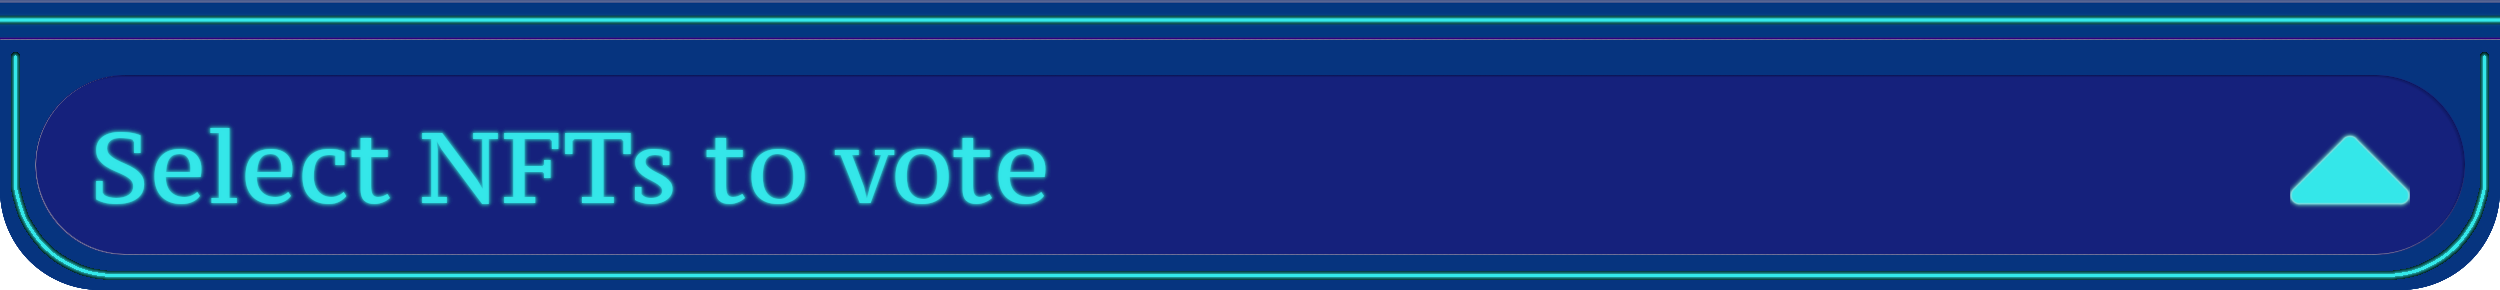
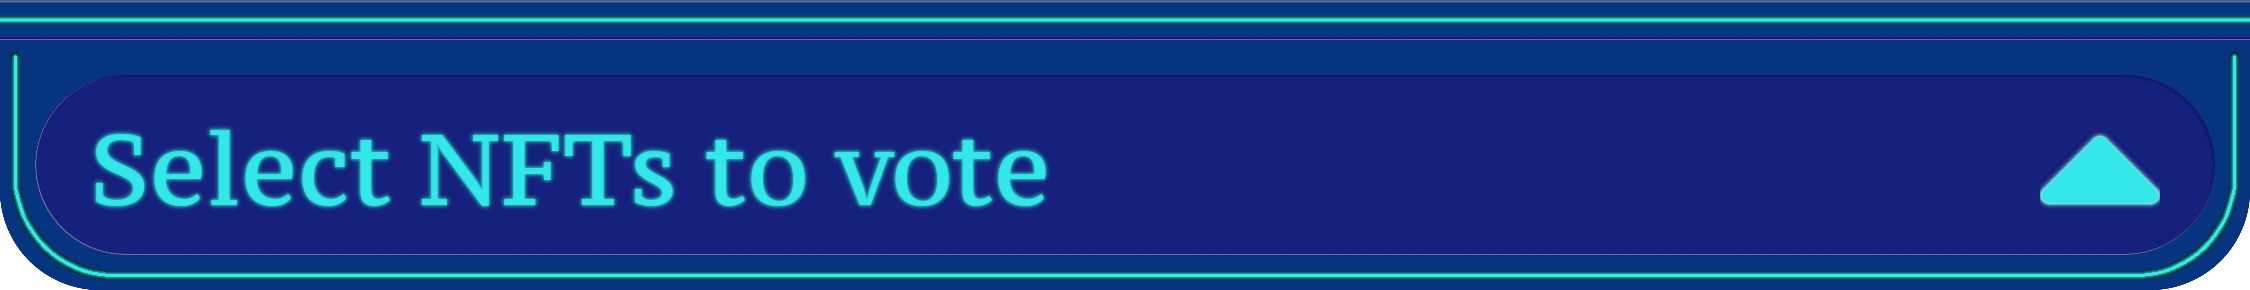
Side panels interaction fix

Changed region(s): [[0.0, 0.1862, 0.4667, 0.9621], [0.9022, 0.1862, 1.0, 0.9931], [0.0311, 0.9931, 0.0622, 1.0]]

diff --git a/script.js b/script.js
@@ -2,7 +2,7 @@ import displayScreen from "./src/display.js";
 import { consolePanel } from "./src/console.js";
 import { renderStory, optionsCounter } from "./src/story.js";
 import { sidePanel, renderPanel, sidePanelBar, sidePanelIcon } from './src/sidepanel.js';
-import { episodesPanel, renderEpisodesPanel, storyNumber } from "./src/episodes.js";
+import { episodesPanel, renderEpisodesPanel, storyNumber, otherEpisodesIcon } from "./src/episodes.js";
 
 
 // Potentials shown (numbers)
@@ -53,7 +53,6 @@ document.body.addEventListener('load', renderGGH());
 window.addEventListener('load', () => resizePage());
 window.addEventListener('resize', () => resizePage());
 
-renderEpisodesPanel();
 
 // Generating page
 
@@ -64,6 +63,7 @@ function renderGGH() {
   displayScreen.renderDisplayButtons();
   renderStory(storyNumber);
   renderPanel();
+  renderEpisodesPanel();
   addListeners();
 }
 
@@ -105,20 +105,36 @@ function resizePage() {
   displayScreen.renderDisplayScreen();
   resizeOptionsContainer();
   consolePanel.renderConsolePanel();
+  if(sidePanel.panelState) {
+    sidePanel.close();
+    sidePanelIcon.style.right = '0';
+  }
+  if(episodesPanel.panelState) {
+    episodesPanel.close();
+    otherEpisodesIconContainer.style.top = '0';
+    otherEpisodesIconContainer.style.left = '0';
+  }
   if(window.outerWidth <= 600) {
     document.body.style.paddingTop = '15%';
     storyText.style.visibility = 'visible';
     sidePanelBar.style.top = '-80%';
     sidePanelIcon.src = 'assets/sideIconMobileOpen.png';
+    otherEpisodesContainer.style.top = '-80%';
+    otherEpisodesContainer.style.left = '0';
+    otherEpisodesIcon.src = 'assets/episodesMobileOpen.png';
   } else {
     document.body.style.paddingTop = '0';
-    sidePanelBar.style.top = '';
+    sidePanelBar.style.top = '0';
+    otherEpisodesContainer.style.top = '0';
+    otherEpisodesContainer.style.left = '-44vw';
+    sidePanelIcon.style.top = '0';
     if(formatButton.src.includes(displayScreen.displayButtons[0].video)) {
       storyText.style.visibility = 'hidden';
     } else if(formatButton.src.includes(displayScreen.displayButtons[0].text)) {
       videoFrame.style.visibility = 'hidden';
     }
     sidePanelIcon.src = 'assets/sideIconPCOpen.png';
+    otherEpisodesIcon.src = 'assets/episodesPCOpen.png';
   }
 }
 

diff --git a/src/episodes.js b/src/episodes.js
@@ -36,7 +36,14 @@ export async function renderEpisodesPanel() {
       </div>`;
   }
 
-  otherEpisodesIconContainer.innerHTML = `<img class="episodes-icon" src="assets/episodesPCOpen.png"></img>`;
+  let episodesIconImage;
+  if(window.outerWidth <= 600) {
+    episodesIconImage = 'assets/episodesMobileOpen.png';
+  } else {
+    episodesIconImage = 'assets/episodesPCOpen.png';
+  }
+
+  otherEpisodesIconContainer.innerHTML = `<img class="episodes-icon" src="${episodesIconImage}"></img>`;
   otherEpisodes.innerHTML = html;
   otherEpisodesTitle.innerHTML = seasonTitle;
 
@@ -105,6 +112,7 @@ export const episodesPanel = {
   panelState: false,
   open() {
     this.changeIconState();
+    otherEpisodesIconContainer.style.zIndex = '30';
     document.body.style.overflowY = 'hidden';
     sidePanelBG.style.display = 'block';
     finalPosition = 0;
@@ -139,19 +147,19 @@ export const episodesPanel = {
     this.panelState = false;
   },
   changeIconState() {
-    /*if(window.outerWidth <= 600) {
+    if(window.outerWidth <= 600) {
       if(this.panelState) {
-        otherEpisodesIcon.src = 'assets/sideIconMobileOpen.png';
+        otherEpisodesIcon.src = 'assets/episodesMobileOpen.png';
       } else {
-        otherEpisodesIcon.src = 'assets/sideIconMobileClose.png';
+        otherEpisodesIcon.src = 'assets/episodesMobileClose.png';
       }
-    } else {*/
+    } else {
       if(this.panelState) {
         otherEpisodesIcon.src = 'assets/episodesPCOpen.png';
       } else {
         otherEpisodesIcon.src = 'assets/episodesPCClose.png';
       }
-    //}
+    }
   }
 }
 

diff --git a/styles.css b/styles.css
@@ -418,7 +418,6 @@ img {
 }
 
 .story-nodes-legend {
-  color: white;
   text-align: center;
   padding: 2vw;
   font-size: 3vw;
@@ -444,13 +443,14 @@ img {
   width: 35vw;
   font-size: 2.5vw;
   line-height: 3vw;
+  text-shadow: 0 0 0.1vw #010020;
 }
 
 .story-node-image {
   object-fit: cover;
   border: 0.05vw solid #33E2E6;
   border-radius: 1vw;
-  width: 35vw;
+  width: 100%;
   height: 20vw;
 }
 
@@ -536,7 +536,30 @@ img {
   }
 
   .story-nodes-icon {
+    width: 31.6vw;
     filter: drop-shadow(0 0.5vw 1vw black);
+  }
+
+  .story-nodes-legend {
+    font-size: 5vw;
+    padding: 3vw;
+  }
+
+  .story-node-tile {
+    width: 86vw;
+    margin: 4vw;
+    margin-top: 0;
+  }
+
+  .story-node-title {
+    padding-left: 2.5%;
+    font-size: 1.2em;
+    line-height: 1.5em;
+    width: 95%;
+  }
+
+  .story-node-image {
+    height: 50vw;
   }
 
   .side-panel, .story-nodes-container {

diff --git a/src/sidepanel.js b/src/sidepanel.js
@@ -80,6 +80,7 @@ export const sidePanel = {
   panelState: false,
   open() {
     this.changeIconState();
+    otherEpisodesIconContainer.style.zIndex = '19';
     document.body.style.overflowY = 'hidden';
     sidePanelBG.style.display = 'block';
     nftSelected.innerHTML = `Selected NFTs: ${clickedTiles.length}`;
@@ -88,7 +89,7 @@ export const sidePanel = {
     if(window.outerWidth <= 600) {
       if(episodesPanel.panelState) {
         episodesPanel.panelState = false;
-        otherEpisodesIcon.src = 'assets/episodesPCOpen.png';
+        otherEpisodesIcon.src = 'assets/episodesMobileOpen.png';
         otherEpisodesContainer.style.top = '-80%';
         sidePanelBar.style.top = '0';
       } else {
